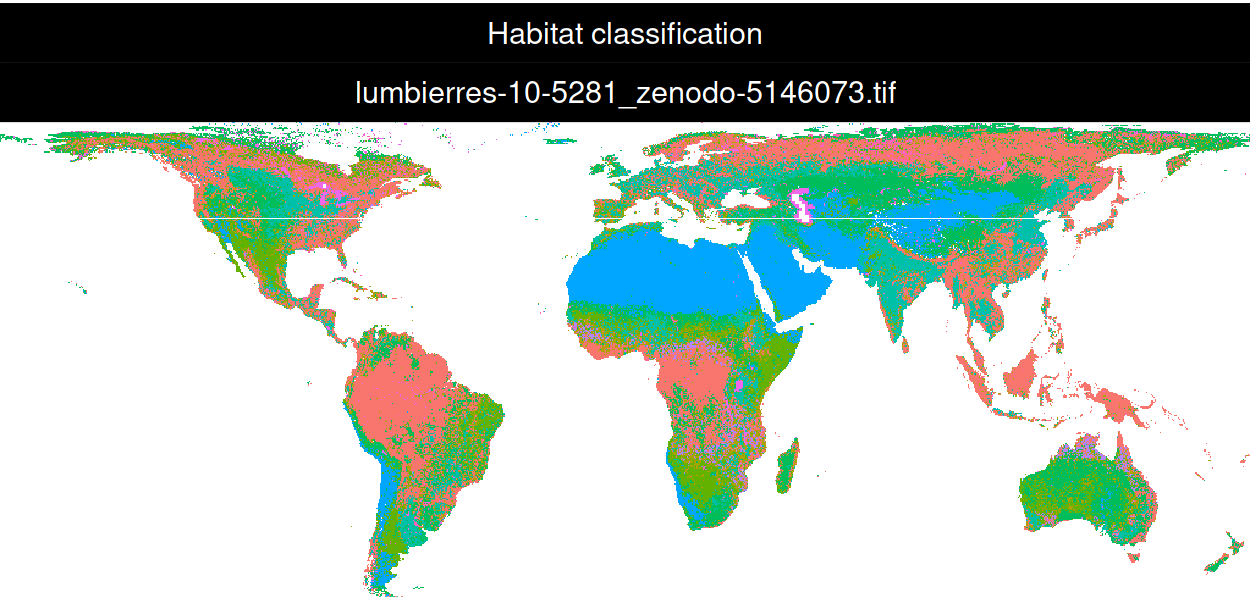
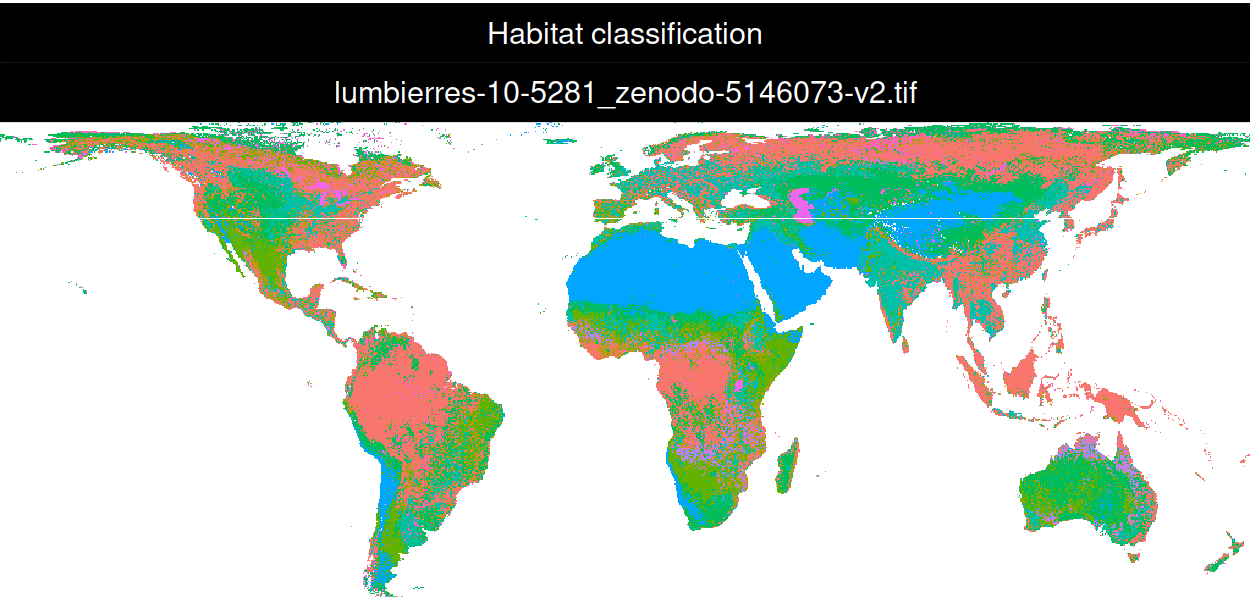
update code with new data - source data were kindly provided by M Lumbierres and have been added to the GitHub release

diff --git a/README.md b/README.md
@@ -8,11 +8,10 @@
 
 This repository contains code to generate global habitat classification
 data (based on Lumbierres *et al.* 2021). Specifically, source data are
+downloaded and then projected to the World Behrmann coordinate reference
+system using (100 m resolution; [ESRI:4326 coordinate reference
+system](https://epsg.io/54017)). A processed version of the data can be
 downloaded from the [Zenodo Digital
-Archive](https://doi.org/10.5281/zenodo.5146072), and then projected to
-the World Behrmann coordinate reference system using (100 m resolution;
-[ESRI:4326 coordinate reference system](https://epsg.io/54017)). A
-processed version of the data can be downloaded from the [Zenodo Digital
 Repository](https://doi.org/10.5281/zenodo.6622059). **All credit should
 go to Lumbierres *et al.* (2021), please cite their work if you use this
 dataset.**
@@ -24,13 +23,13 @@ dataset.**
 The habitat classification data are stored in a raster (GeoTIFF) file.
 The file name contains the version number of the original datasets
 (i.e., per the digital object identifier). The latest version of the
-file is `lumbierres-10-5281_zenodo-5146073.tif`.
+file is `lumbierres-10-5281_zenodo-5146073-v2.tif`.
 
-The metadata for the `lumbierres-10-5281_zenodo-5146073.tif` raster file
-is shown below.
+The metadata for the `lumbierres-10-5281_zenodo-5146073-v2.tif` raster
+file is shown below.
 
     Driver: GTiff/GeoTIFF
-    Files: lumbierres-10-5281_zenodo-5146073.tif
+    Files: lumbierres-10-5281_zenodo-5146073-v2.tif
     Size is 347351, 132926
     Coordinate System is:
     PROJCRS["World_Behrmann",
@@ -70,7 +69,6 @@ is shown below.
     Pixel Size = (100.000000000000000,-100.000000000000000)
     Metadata:
       AREA_OR_POINT=Area
-      TIFFTAG_SOFTWARE=GRASS GIS 7.8.5 with GDAL 3.0.4
     Image Structure Metadata:
       COMPRESSION=DEFLATE
       INTERLEAVE=BAND
@@ -83,9 +81,6 @@ is shown below.
     Band 1 Block=256x256 Type=Byte, ColorInterp=Gray
       Description = habitat_CGLS
       NoData Value=0
-      Metadata:
-        COLOR_TABLE_RULES_COUNT=1
-        COLOR_TABLE_RULE_RGB_0=0.000000e+00 1.200000e+02 255 255 255 150 123 0
 
 ## Usage
 
@@ -119,10 +114,6 @@ System packages
 
 This dataset was derived from Lumbierres *et al.* (2021). If you use
 this dataset, you should cite their work - they deserve all the credit!
-
-> Lumbierres, M (2021). *Map of habitat classes (Level 1) from the IUCN
-> Habitat.* Zenodo Digital Repository. Available at
-> <https://doi.org/10.5281/zenodo.5146072>.
 
 > Lumbierres M, Dahal PR, Di Marco M, Butchart SHM, Donald PF, and
 > Rondinini C (2021) Translating habitat class to land cover to map area
